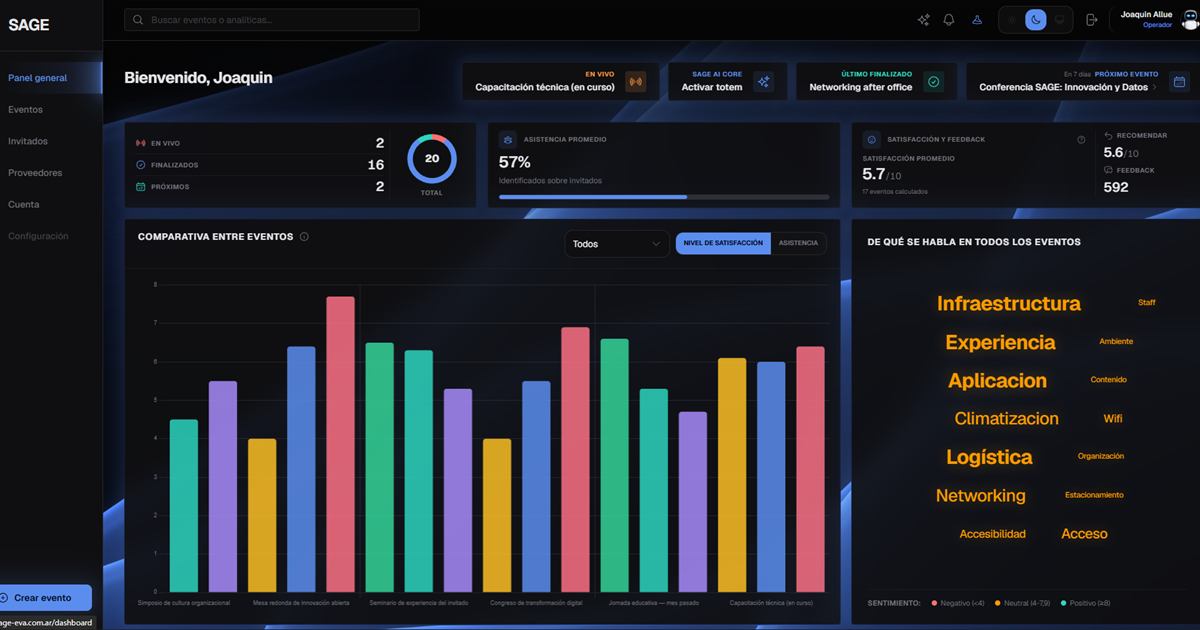
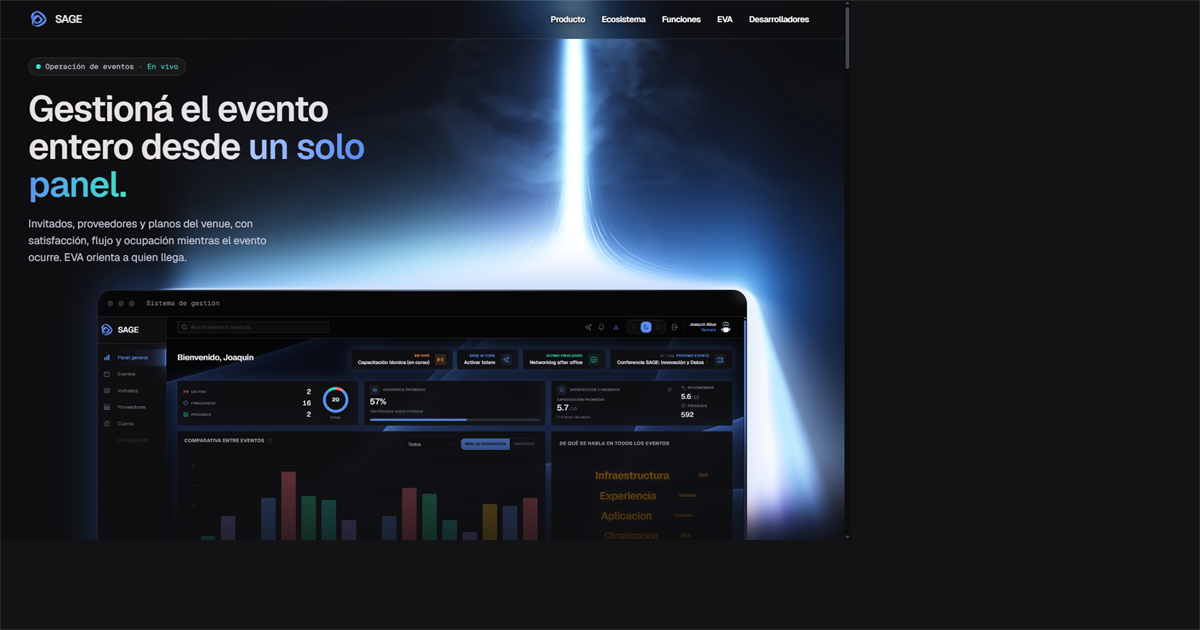
refactor: refuerzo en imagen al pasar el link de la pagina por redes sociales

diff --git a/vite.config.ts b/vite.config.ts
@@ -9,6 +9,23 @@ import { vitePrerenderPlugin } from "vite-prerender-plugin";
 const siteTitle = "SAGE — Gestión de eventos";
 const siteDescription =
   "SAGE es el panel para operar un evento: invitados, proveedores, planos y métricas en vivo, con EVA en el venue.";
+const ogImageAlt =
+  "SAGE: gestioná el evento entero desde un solo panel, con operación en vivo y preview del sistema.";
+
+function resolveSiteUrl(env: Record<string, string>): string {
+  const explicit = (process.env.VITE_SITE_URL ?? env.VITE_SITE_URL ?? "").trim();
+  if (explicit) return explicit.replace(/\/$/, "");
+
+  const vercelHost = (
+    process.env.VERCEL_PROJECT_PRODUCTION_URL ??
+    process.env.VERCEL_URL ??
+    ""
+  ).trim();
+  if (!vercelHost) return "";
+
+  const host = vercelHost.replace(/^https?:\/\//i, "").replace(/\/$/, "");
+  return `https://${host}`;
+}
 
 function escapeAttr(value: string) {
   return value.replaceAll("&", "&amp;").replaceAll('"', "&quot;").replaceAll("<", "&lt;");
@@ -51,6 +68,7 @@ function seoPlugin(siteUrl: string): Plugin {
     `<meta property="og:description" content="${escapeAttr(siteDescription)}" />`,
     pageUrl ? `<meta property="og:url" content="${escapeAttr(pageUrl)}" />` : "",
     `<meta property="og:image" content="${escapeAttr(imageUrl)}" />`,
+    `<meta property="og:image:alt" content="${escapeAttr(ogImageAlt)}" />`,
     `<meta property="og:image:width" content="1200" />`,
     `<meta property="og:image:height" content="630" />`,
     `<meta name="twitter:card" content="summary_large_image" />`,
@@ -123,7 +141,7 @@ function seoPlugin(siteUrl: string): Plugin {
 
 export default defineConfig(({ mode }) => {
   const env = loadEnv(mode, process.cwd(), "VITE_");
-  const siteUrl = (process.env.VITE_SITE_URL ?? env.VITE_SITE_URL ?? "").trim();
+  const siteUrl = resolveSiteUrl(env);
   const prerenderScript = fileURLToPath(new URL("./src/prerender.tsx", import.meta.url));
 
   return {

diff --git a/README.md b/README.md
@@ -17,7 +17,7 @@ Abre `http://localhost:5173`.
 
 `VITE_SAGE_APP_URL` (ver `.env.example`) es el origen de la consola. Iniciar sesión y Crear cuenta apuntan a `/login` y `/register` de esa URL. Si no está definida, usa `http://localhost:3000`.
 
-`VITE_SITE_URL` es la URL pública de esta landing, sin barra final (por ejemplo `https://sage.ejemplo.com`). El build la usa para la URL canónica, Open Graph, Twitter Card, JSON-LD y `sitemap.xml`. Si no está definida, el build sigue, pero no emite canonical ni sitemap.
+`VITE_SITE_URL` es la URL pública de esta landing, sin barra final (por ejemplo `https://sage-landing-two.vercel.app`). El build la usa para la URL canónica, Open Graph, Twitter Card, JSON-LD y `sitemap.xml`. Debe coincidir con el dominio desde el que compartís el link. En **Vercel**, si no la definís, el build usa `VERCEL_PROJECT_PRODUCTION_URL` o `VERCEL_URL` para que `og:image` apunte al mismo host.
 
 La captura del hero está en `public/preview-system.png`. Se puede reemplazar sin tocar el código. La imagen para redes está en `public/og-image.png` (1200×630).
 
@@ -37,5 +37,5 @@ El pre-render no usa Chromium. El primer render del hero no consulta `window`, p
 1. Ver el código fuente de `/` y confirmar que el párrafo del hero está en el HTML, sin ejecutar JavaScript.
 2. Abrir `/robots.txt` y `/sitemap.xml` y comprobar que apuntan a `VITE_SITE_URL`.
 3. [Prueba de resultados enriquecidos](https://search.google.com/test/rich-results) con la URL publicada.
-4. Compartir la URL (WhatsApp, LinkedIn o el [depurador de Facebook](https://developers.facebook.com/tools/debug/)) y revisar título, descripción e imagen `og-image.png`.
+4. Miniatura al compartir: abrir `/og-image.png` (debe mostrar el hero) y el [depurador de Facebook](https://developers.facebook.com/tools/debug/) → **Scrape Again** (WhatsApp usa el mismo cache). Opcional: [LinkedIn Post Inspector](https://www.linkedin.com/post-inspector/). Pegá el link en un chat nuevo.
 5. Lighthouse (SEO y accesibilidad): el enlace “Saltar al contenido” debe aparecer al tabular desde el inicio de la página.
